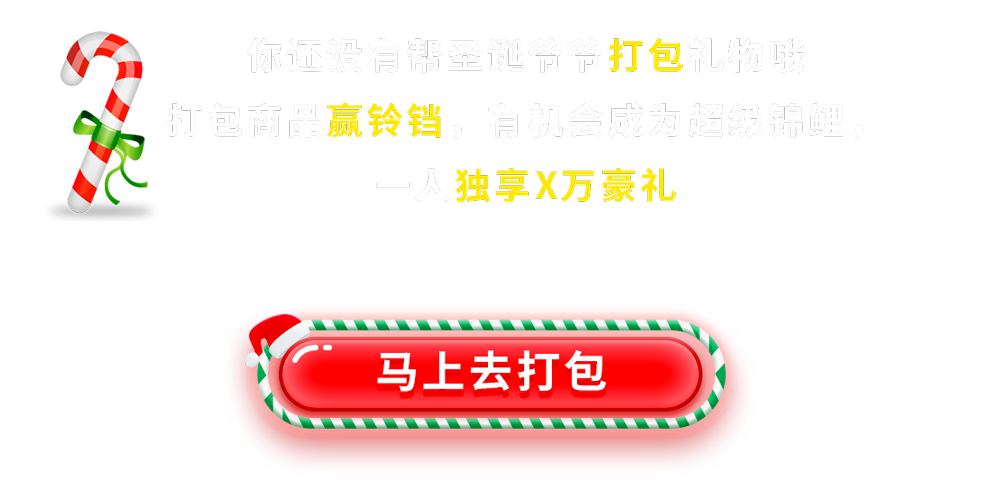
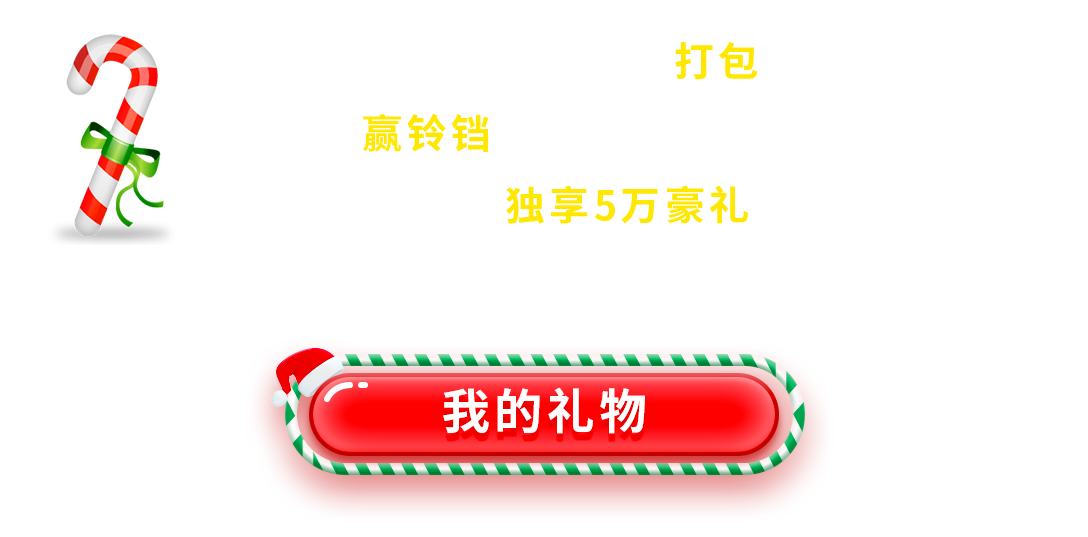
bugfix: 2018双旦活动-我的礼物-bugfix

diff --git a/activities/XmasNewYear2018/sourceCode/js/myaward.js b/activities/XmasNewYear2018/sourceCode/js/myaward.js
@@ -194,12 +194,14 @@ var app = {
 		if($("#koiCollectId").css("display") == "block") {//如果锦鲤领取弹窗在显示,退回到主页
 			console.log("handleBackButtonDown in..000.");//debug
 			$("#koiCollectId").css("display", "none");
-			$("#toastPageId").css("display", "none");			
+			$("#toastPageId").css("display", "none");
+			getMyGifts();//获取我的礼物
 		}else if($("#toastDialogId").css("display") == "block" && $("#thanks_Bg").css("display") == "block") {
 			//如果从奖励弹窗返回:
 			console.log("handleBackButtonDown in..001.");//debug
 			$("#toastDialogId").css("display", "none");
 			$("#thanks_Bg").css("display", "none");
+			getMyGifts();//获取我的礼物
 		}else if($("#toastDialogId").css("display") == "block") {//如果 待领取或已领取弹窗在,退出到主页
 			console.log("handleBackButtonDown in..002.");//debug
 			$("#toastDialogEntityCollectedId").css("display", "none");
@@ -746,13 +748,13 @@ function getEntityAward(giftsInfo) {
 	}
 	switch(giftsInfo.awardTypeId) {
 		case "16": //锦鲤
-		button_name = "锦鲤礼包";
+		button_type = "锦鲤礼包";
 		break;
 		case "15": //大额现金
-		button_name = "现金红包";
+		button_type = "大额现金红包";
 		break;
 		case "2": //实体奖
-		button_name = "实物奖励";
+		button_type = "实物奖励";
 		break;
 	}
 	webBtnClickLog(button_name, button_type);
